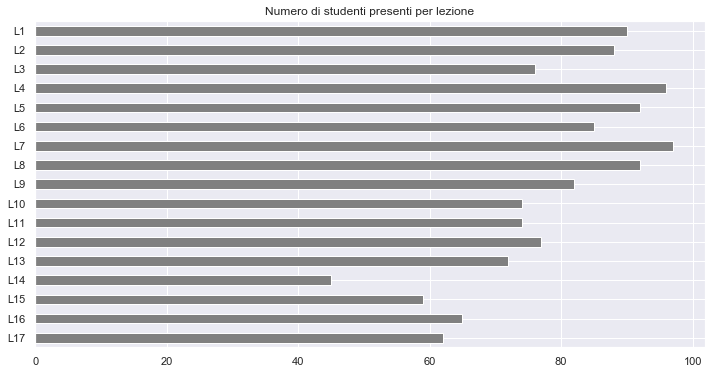
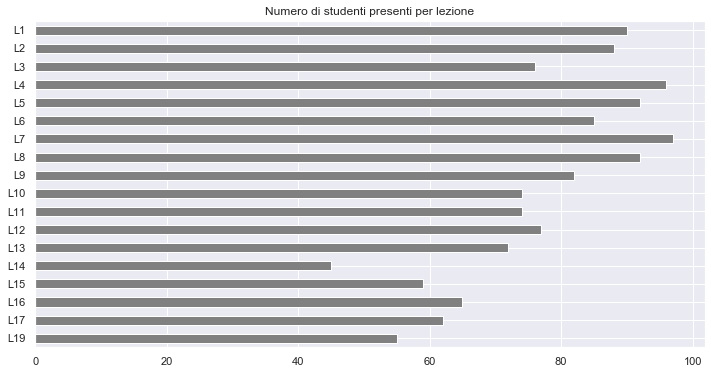
Last lecture

diff --git a/sito/diario.rst b/sito/diario.rst
@@ -75,7 +75,7 @@ facoltative*.
    +-------+------------+--------------------------------------------------------------+-------------------------------------------------------------------------+
    | 18    | Ven 13/12  | Specifiche                                                   | PDJ 9; `H 18`_                                                          |
    +-------+------------+--------------------------------------------------------------+-------------------------------------------------------------------------+
-   | 19    | Mar 17/12  | Testing e debugging                                          | PDJ 10 *1 - 6*.                                                         |
+   | 19    | Mar 17/12  | Testing e debugging                                          | PDJ 10 *1 - 6*.; `Rice Theorem`_                                        |
    |       |            |                                                              +-------------------------------------------------------------------------+
    | 20    | Ven 20/12  |                                                              | PDJ 10 *7 - 11*; JUnit_                                                 |
    +-------+------------+--------------------------------------------------------------+-------------------------------------------------------------------------+
@@ -135,6 +135,7 @@ facoltative*.
 .. _H 18: https://github.com/prog2-unimi/handouts/tree/master/src/it/unimi/di/prog2/l18/digraph
 
 .. _JUnit: https://junit.org/
+.. _Rice Theorem: https://www.dcc.fc.up.pt/~acm/ricep.pdf
 
 .. admonition:: Nota bene
    :class: alert alert-secondary

diff --git a/sito/frequenze.md b/sito/frequenze.md
@@ -8,7 +8,7 @@ Questa pagina contiene una analisi *aggregata* delle informazioni riguardanti la
 
 Il primo grafico riporta il numero assoluto di studenti presenti 
 per ciascuna lezione che si è svolta alla data odierna, in media
-sono stati presenti **78.0** (σ=14.43) studenti.
+sono stati presenti **76.72** (σ=15.01) studenti.
 
 
 
@@ -46,6 +46,15 @@ Risulta interessante *classificare* i pattern di presenza, cercando di dedurre d
 
 Tale classificazione è evidentemente arbitraria, ma offre nondimeno una ragionevole interpretazione dei dati raccolti. Il grafico seguente mostra le frequenze dei vari tipi di studenti.
 
+    /Users/santini/.local/share/dir-venv/f9ff2d2596abdb66cb97e5ab34e93dbb-drafts/lib/python3.7/site-packages/ipykernel_launcher.py:5: FutureWarning: 
+    Passing list-likes to .loc or [] with any missing label will raise
+    KeyError in the future, you can use .reindex() as an alternative.
+    
+    See the documentation here:
+    https://pandas.pydata.org/pandas-docs/stable/user_guide/indexing.html#deprecate-loc-reindex-listlike
+      """
 
-![png](frequenze_files/frequenze_15_0.png)
+
+
+![png](frequenze_files/frequenze_15_1.png)
 
